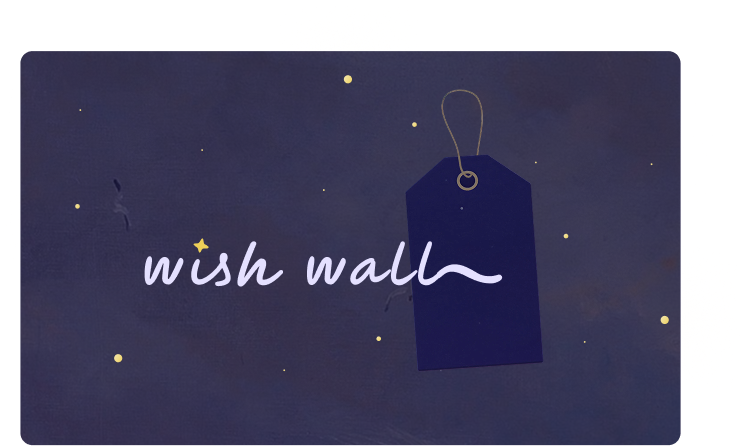
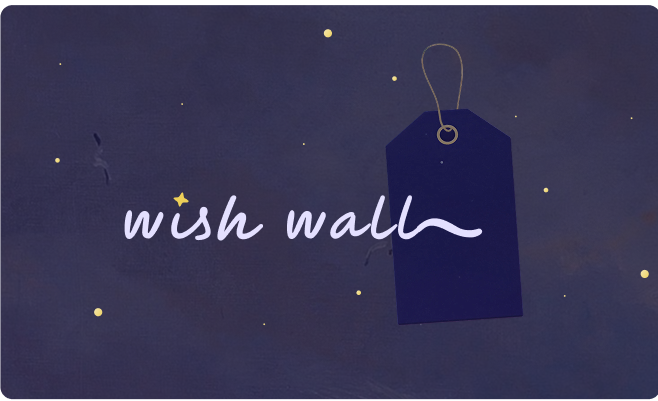
Fix side-quest card sizing and drop glass panel from all large cards
Both fixes turned out to be simpler than the CSS investigation
suggested. The side-quest cards' apparent size mismatch wasn't a
layout bug at all (confirmed via direct DOM measurement in the
browser: both boxes were already pixel-identical) — the wish-wall
thumbnail's own PNG had transparent padding baked in around a
smaller graphic, so its visible content read as smaller than the
makeup image even though the frame matched. Swapped in a version of
the thumbnail that fills its frame edge-to-edge like the other card.

Also removes the translucent glass panel from all 4 large-card
mockups (previously only removed for team chemistry) — every mockup
now carries its own finished background, so the glass frame just
duplicated it.

diff --git a/src/components/ui/ProjectCard.tsx b/src/components/ui/ProjectCard.tsx
@@ -16,7 +16,7 @@ export function ProjectCard({ project, priority }: { project: Project; priority?
   if (project.size === "small") {
     return (
       <Link href={`/work/${project.slug}`} className="group block w-full max-w-[330px] focus-visible:outline-2 focus-visible:outline-offset-4 rounded-sm">
-        <div className="relative aspect-[330/197] overflow-hidden rounded-md bg-navy transition-transform duration-[var(--duration-standard)] ease-[var(--ease-tactile)] group-hover:scale-[1.02]">
+        <div className="relative aspect-[330/197] overflow-hidden rounded-md transition-transform duration-[var(--duration-standard)] ease-[var(--ease-tactile)] group-hover:scale-[1.02]">
           <Image
             src={project.thumbnailImage.src}
             alt=""
@@ -64,34 +64,20 @@ export function ProjectCard({ project, priority }: { project: Project; priority?
             priority={priority}
           />
         </motion.div>
-        {/* "glass" panel matches Figma's "project image" component: a
-            translucent frosted frame around the real mockup, or the navy
-            "not ready" placeholder when a project has none yet. Mockups
-            that already carry their own finished background (cardImageBare)
-            skip the glass frame so it doesn't double up. */}
+        {/* Real mockups (Figma's "project image" component) carry their own
+            finished background, so they sit directly on the shared backdrop.
+            The "not ready" placeholder keeps the glass panel + navy box. */}
         <div className="absolute inset-0 flex items-center justify-center p-[6%]">
           {project.cardImage ? (
-            project.cardImageBare ? (
-              <div className="relative h-full w-full">
-                <Image
-                  src={project.cardImage.src}
-                  alt={project.cardImage.alt}
-                  fill
-                  sizes="(min-width: 1024px) 45vw, 100vw"
-                  className="object-contain"
-                />
-              </div>
-            ) : (
-              <div className="relative h-full w-full rounded-[5px] bg-glass p-[2%] backdrop-blur-[2px]">
-                <Image
-                  src={project.cardImage.src}
-                  alt={project.cardImage.alt}
-                  fill
-                  sizes="(min-width: 1024px) 45vw, 100vw"
-                  className="rounded-[5px] object-contain"
-                />
-              </div>
-            )
+            <div className="relative h-full w-full">
+              <Image
+                src={project.cardImage.src}
+                alt={project.cardImage.alt}
+                fill
+                sizes="(min-width: 1024px) 45vw, 100vw"
+                className="object-contain"
+              />
+            </div>
           ) : (
             <div className="relative h-full w-full rounded-[5px] bg-glass p-[2%] backdrop-blur-[2px]">
               <div className="h-full w-full rounded-[5px] bg-navy" />

diff --git a/src/app/page.tsx b/src/app/page.tsx
@@ -34,7 +34,12 @@ export default function HomePage() {
                   className="hidden h-[220px] w-auto sm:block"
                 />
               </div>
-              <div className="flex flex-wrap items-start justify-center gap-9 lg:flex-1 lg:flex-nowrap lg:justify-start">
+              {/* Grid (not flex) so both cards always get exactly equal columns —
+                  a flex row here left card width dependent on each card's own
+                  content (e.g. category pill text length), which some browsers
+                  resolved inconsistently once combined with the image's
+                  aspect-ratio sizing. */}
+              <div className="grid grid-cols-1 justify-items-center gap-9 sm:grid-cols-2 lg:flex-1 lg:justify-items-start">
                 {smallProjects.map((project) => (
                   <ProjectCard key={project.slug} project={project} />
                 ))}

diff --git a/src/types/project.ts b/src/types/project.ts
@@ -100,10 +100,8 @@ export interface Project {
   order: number;
   coverImage: { src: string; alt: string };
   thumbnailImage: { src: string; alt: string };
-  /** Real mockup shown inside the large homepage card's glass panel (Figma's "project image" component). Falls back to a placeholder box when absent. */
+  /** Real mockup shown on the large homepage card (Figma's "project image" component). Falls back to a glass-panel placeholder box when absent. */
   cardImage?: { src: string; alt: string };
-  /** Skips the glass panel wrapper around `cardImage` — for mockups that already carry their own finished background/framing, where the glass tint would double up. */
-  cardImageBare?: boolean;
   meta: ProjectMeta;
   /** Short bullet list of skills/methods, shown in the case-study meta strip. */
   skills?: string[];

diff --git a/src/content/projects/team-chemistry.ts b/src/content/projects/team-chemistry.ts
@@ -243,7 +243,6 @@ export const teamChemistry: Project = {
   coverImage: { src: "/images/projects/team-chemistry.jpg", alt: "" },
   thumbnailImage: { src: "/images/projects/team-chemistry.jpg", alt: "" },
   cardImage: { src: "/images/projects/team-chem--project-image.png", alt: "" },
-  cardImageBare: true,
   meta: {
     role: "Product Designer",
     timeline: "UW HCDE Capstone · 2025–2026",
